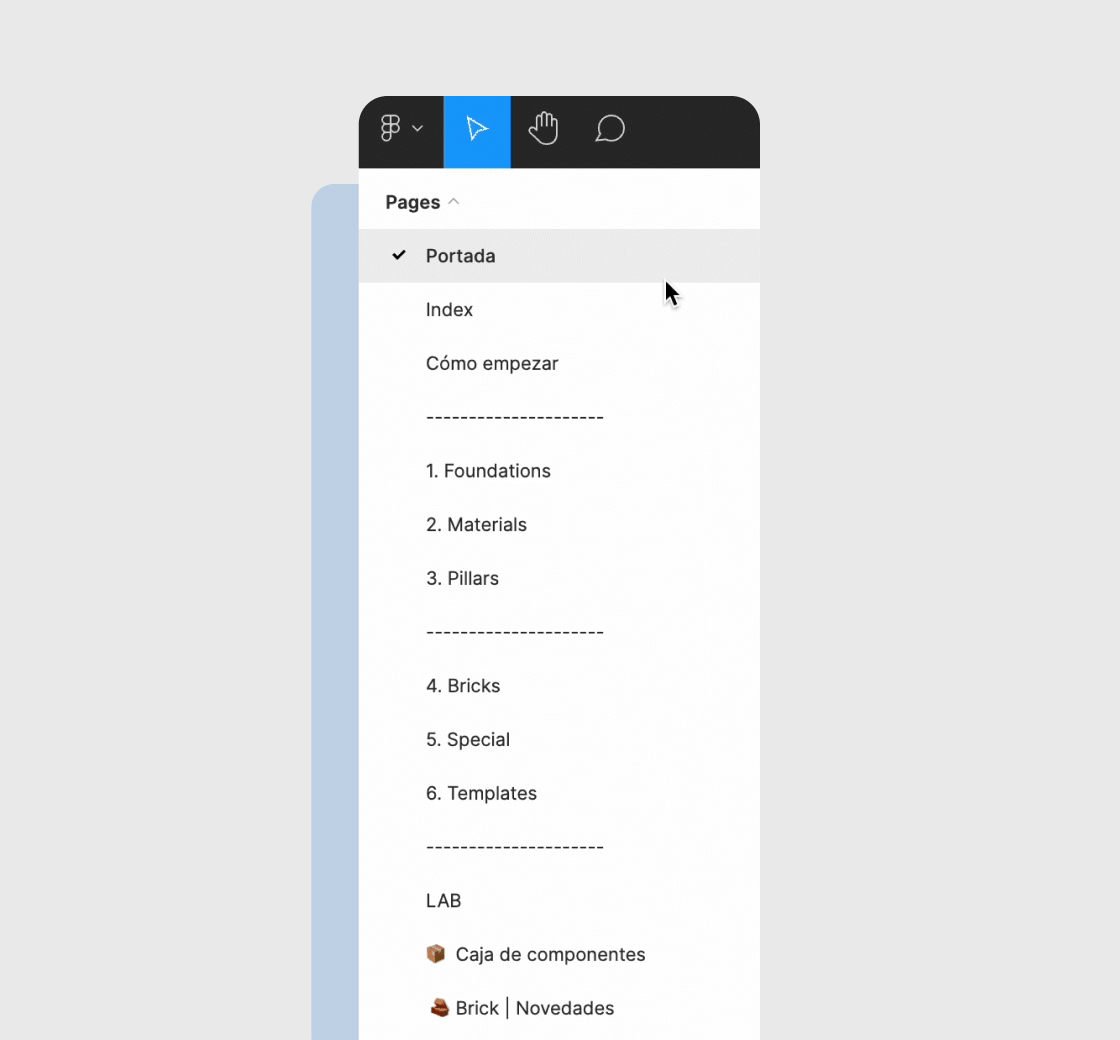
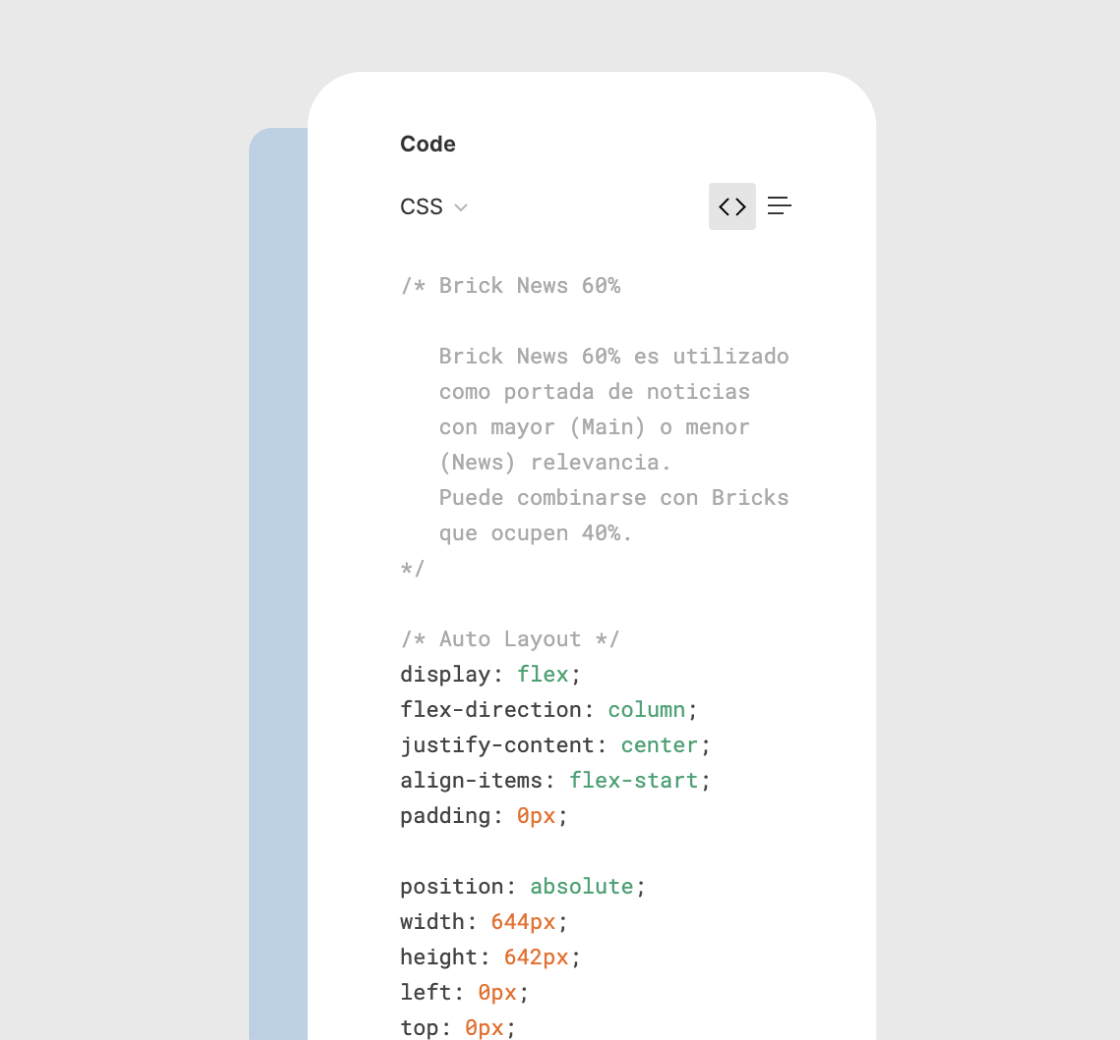
bds

diff --git a/portfolio.html b/portfolio.html
@@ -956,6 +956,65 @@ body {
     <img src="uploads/essen-hero2.jpg" style="width:100%;display:block;" alt="Essen+ Hero 2">
   </div>
 
+  <!-- ════════════════════ BANCO DEL SOL ════════════════════ -->
+  <div class="proj-row">
+    <div class="proj-row-icon">
+      <img src="uploads/bds-logo.jpg" alt="Banco del Sol">
+    </div>
+    <div class="proj-row-info">
+      <span class="proj-row-name">Banco del Sol</span>
+      <span class="proj-tagline" id="t-bds-tagline">Design systems owner for Retail &amp; Business Banking.</span>
+    </div>
+    <span class="proj-row-year">2023–2025</span>
+  </div>
+
+  <div class="case-block">
+    <img class="case-img-full" src="uploads/bds-hero.jpg" style="width:100%;height:520px;object-fit:cover;object-position:center;display:block;" alt="Banco del Sol Hero">
+  </div>
+
+  <div class="section-row"><span class="section-tag" id="t-bds-about-tag">About</span></div>
+  <div class="about-split">
+    <div class="about-split-left">
+      <div class="about-text">
+        <p id="t-bds-p1">At Banco del Sol I owned the design systems for both Retail Banking and Business Banking products, used by a team of 8+ designers across multiple squads. The role sat at the intersection of design and engineering: I managed the full component lifecycle from intake and design to implementation review and team communication, while acting as the main bridge between design and development for anything related to system consistency.</p>
+        <p id="t-bds-p2">Beyond maintenance, I defined the governance model, Storybook documentation, and design token structure that standardized patterns across both products. I identified friction points in the system and proposed adjustments to make it clearer and more usable over time. A big part of the role was also human: supporting designers in adopting the system, resolving doubts, aligning criteria, and pushing continuous improvements that actually stuck.</p>
+      </div>
+    </div>
+    <div class="about-split-right">
+      <img class="about-img" src="uploads/bds-about.jpg" style="width:100%;object-fit:cover;display:block;" alt="Banco del Sol">
+    </div>
+  </div>
+
+  <div class="img-row-2">
+    <img src="uploads/bds-full-1.jpg" style="width:100%;height:480px;object-fit:cover;object-position:center;display:block;" alt="Banco del Sol Full 1">
+    <img src="uploads/bds-full-2.jpg" style="width:100%;height:480px;object-fit:cover;object-position:center;display:block;" alt="Banco del Sol Full 2">
+  </div>
+
+  <div class="section-row"><span class="section-tag" id="t-bds-wid-tag">What I did</span></div>
+  <div class="wid-grid" style="grid-template-columns: 1fr 1fr;">
+    <div class="wid-cell" style="border-bottom: 1px dashed var(--dash); border-right: 1px dashed var(--dash);">
+      <div class="wid-title" id="t-bds-wid-1-title">Design system ownership</div>
+      <div class="wid-desc" id="t-bds-wid-1-desc">Owned the DS for Retail and Business Banking, managing the full component lifecycle from intake and design to implementation review across 8+ designers and multiple squads.</div>
+    </div>
+    <div class="wid-cell" style="border-bottom: 1px dashed var(--dash); border-right: none;">
+      <div class="wid-title" id="t-bds-wid-2-title">Governance &amp; documentation</div>
+      <div class="wid-desc" id="t-bds-wid-2-desc">Defined the governance model, Storybook documentation, and token structure to standardize patterns and make the system navigable and consistent across both products.</div>
+    </div>
+    <div class="wid-cell" style="border-right: 1px dashed var(--dash); border-bottom: none;">
+      <div class="wid-title" id="t-bds-wid-3-title">Design-dev bridge</div>
+      <div class="wid-desc" id="t-bds-wid-3-desc">Acted as the main point of contact between design and development for system consistency and implementation, reducing misalignment and improving handoff quality.</div>
+    </div>
+    <div class="wid-cell" style="border-right: none; border-bottom: none;">
+      <div class="wid-title" id="t-bds-wid-4-title">System adoption</div>
+      <div class="wid-desc" id="t-bds-wid-4-desc">Supported designers in using the system day-to-day: resolved doubts, aligned criteria, and pushed continuous improvements to the component library so it stayed useful and up to date.</div>
+    </div>
+  </div>
+
+  <div class="img-row-2">
+    <img src="uploads/bds-screen-1.jpg" style="width:100%;height:520px;object-fit:cover;object-position:center;display:block;" alt="Banco del Sol Screen 1">
+    <img src="uploads/bds-screen-2.jpg" style="width:100%;height:520px;object-fit:cover;object-position:center;display:block;" alt="Banco del Sol Screen 2">
+  </div>
+
   <!-- ════════════════════ KF CONNECT ════════════════════ -->
   <div class="proj-row" id="kf-proj-row">
     <div class="proj-row-icon">
@@ -1316,6 +1375,19 @@ const TRANSLATIONS = {
   'essen-wid-3-desc':     { en: 'Designed the registration experience including social login, phone and DNI validation, edge cases and wait states up to 96 hours.', es: 'Diseñé la experiencia de registro incluyendo social login, validación de teléfono y DNI, casos borde y estados de espera de hasta 96 horas.' },
   'essen-wid-4-title':    { en: 'Referrals & gamification', es: 'Referidos y gamificación' },
   'essen-wid-4-desc':     { en: 'Designed the full referral experience: progress dashboard, Bronze/Silver/Gold levels, badges, points history and magic link sharing flow.', es: 'Diseñé la experiencia completa de referidos: dashboard de progreso, niveles Bronce/Plata/Oro, insignias, historial de puntos y flujo de compartir con magic link.' },
+  'bds-tagline':          { en: 'Design systems owner for Retail &amp; Business Banking.', es: 'Responsable del design system de Retail y Business Banking.' },
+  'bds-about-tag':        { en: 'About', es: 'Sobre el proyecto' },
+  'bds-p1':               { en: 'At Banco del Sol I owned the design systems for both Retail Banking and Business Banking products, used by a team of 8+ designers across multiple squads. The role sat at the intersection of design and engineering: I managed the full component lifecycle from intake and design to implementation review and team communication, while acting as the main bridge between design and development for anything related to system consistency.', es: 'En Banco del Sol fui responsable de los design systems de los productos de Retail Banking y Business Banking, usados por un equipo de 8+ diseñadores en múltiples squads. El rol estuvo en la intersección entre diseño e ingeniería: gestioné el ciclo completo de componentes desde el intake y el diseño hasta la revisión de implementación y la comunicación al equipo, siendo el principal nexo entre diseño y desarrollo para todo lo relacionado con consistencia del sistema.' },
+  'bds-p2':               { en: 'Beyond maintenance, I defined the governance model, Storybook documentation, and design token structure that standardized patterns across both products. I identified friction points in the system and proposed adjustments to make it clearer and more usable over time. A big part of the role was also human: supporting designers in adopting the system, resolving doubts, aligning criteria, and pushing continuous improvements that actually stuck.', es: 'Más allá del mantenimiento, definí el modelo de governance, la documentación en Storybook y la estructura de tokens que estandarizó patrones en ambos productos. Identifiqué puntos de fricción en el sistema y propuse ajustes para hacerlo más claro y usable con el tiempo. Una parte importante del rol fue también humana: acompañar a los diseñadores en la adopción del sistema, resolver dudas, alinear criterios e impulsar mejoras continuas que realmente se sostuvieron.' },
+  'bds-wid-tag':          { en: 'What I did', es: 'Qué hice' },
+  'bds-wid-1-title':      { en: 'Design system ownership', es: 'Ownership del design system' },
+  'bds-wid-1-desc':       { en: 'Owned the DS for Retail and Business Banking, managing the full component lifecycle from intake and design to implementation review across 8+ designers and multiple squads.', es: 'Responsable del DS de Retail y Business Banking, gestionando el ciclo completo de componentes desde el intake y el diseño hasta la revisión de implementación en 8+ diseñadores y múltiples squads.' },
+  'bds-wid-2-title':      { en: 'Governance &amp; documentation', es: 'Governance y documentación' },
+  'bds-wid-2-desc':       { en: 'Defined the governance model, Storybook documentation, and token structure to standardize patterns and make the system navigable and consistent across both products.', es: 'Definí el modelo de governance, documentación en Storybook y estructura de tokens para estandarizar patrones y hacer el sistema navegable y consistente en ambos productos.' },
+  'bds-wid-3-title':      { en: 'Design-dev bridge', es: 'Puente diseño-desarrollo' },
+  'bds-wid-3-desc':       { en: 'Acted as the main point of contact between design and development for system consistency and implementation, reducing misalignment and improving handoff quality.', es: 'Actué como principal punto de contacto entre diseño y desarrollo para la consistencia e implementación del sistema, reduciendo desalineamientos y mejorando la calidad del handoff.' },
+  'bds-wid-4-title':      { en: 'System adoption', es: 'Adopción del sistema' },
+  'bds-wid-4-desc':       { en: 'Supported designers in using the system day-to-day: resolved doubts, aligned criteria, and pushed continuous improvements to the component library so it stayed useful and up to date.', es: 'Acompañé a los diseñadores en el uso diario del sistema: resolví dudas, alineé criterios e impulsé mejoras continuas a la librería de componentes para que se mantuviera útil y actualizada.' },
   'kf-tagline':           { en: 'A mobile-first platform for Kauffman Fellows.', es: 'Una plataforma mobile-first para Kauffman Fellows.' },
   'kf-private-title':     { en: 'This project is private', es: 'Este proyecto es privado' },
   'kf-private-desc':      { en: 'Enter the password to view the content', es: 'Ingresá la contraseña para ver el contenido' },
